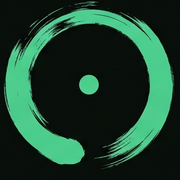
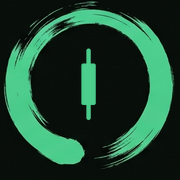
style(site): vela no centro do ensō no lugar do ponto
- hero: vela em SVG que sobe ao acender e respira com o halo
- símbolo, favicons, ícone do iPhone e imagem de compartilhamento com a vela
- favicon de 32px com vela mais grossa para ler pequeno
- botão de voltar ao topo com uma velinha

Changed region(s): [[0.4167, 0.25, 0.5556, 0.6667]]

diff --git a/apps/site/estilos.css b/apps/site/estilos.css
@@ -1914,3 +1914,49 @@ main > section:nth-of-type(even):not(.hero, .final)::before {
   left: max(-420px, -30vw);
   rotate: -140deg;
 }
+/* a vela no centro do ensō: o pavio cresce, o corpo sobe do meio */
+.vela-pavio,
+.vela-corpo {
+  transform-box: fill-box;
+  transform-origin: center;
+}
+.ponto-arte .vela-pavio {
+  animation: vela-pavio 0.9s cubic-bezier(0.2, 0.8, 0.2, 1) 2.7s backwards;
+}
+.ponto-arte .vela-corpo {
+  animation: vela-corpo 0.7s cubic-bezier(0.2, 0.9, 0.3, 1.2) 2.55s backwards;
+}
+@keyframes vela-pavio {
+  from {
+    transform: scaleY(0.3);
+  }
+}
+@keyframes vela-corpo {
+  from {
+    transform: scaleY(0);
+  }
+}
+@media (prefers-reduced-motion: reduce) {
+  .ponto-arte .vela-pavio,
+  .ponto-arte .vela-corpo {
+    animation: none;
+  }
+}
+/* a velinha do botão de voltar ao topo */
+.progresso span {
+  position: relative;
+  width: 5px;
+  height: 10px;
+  border-radius: 1px;
+}
+.progresso span::before {
+  content: "";
+  position: absolute;
+  left: 50%;
+  top: -4px;
+  width: 1.5px;
+  height: 18px;
+  translate: -50% 0;
+  border-radius: 1px;
+  background: var(--jade);
+}

diff --git a/apps/site/index.html b/apps/site/index.html
@@ -150,7 +150,8 @@
           <image href="img/enso.webp" x="1459" y="185" width="1140" height="1140" mask="url(#pincelada)" />
           <g class="ponto-arte">
             <circle cx="2012" cy="768" r="200" fill="url(#halo-ponto)" />
-            <circle cx="2012" cy="768" r="56" fill="#3ddc8e" />
+            <rect class="vela-pavio" x="2003" y="568" width="18" height="400" rx="9" fill="#3ddc8e" />
+            <rect class="vela-corpo" x="1974" y="652" width="76" height="232" rx="10" fill="#3ddc8e" />
           </g>
         </svg>
         <div class="hero-veu" aria-hidden="true"></div>
